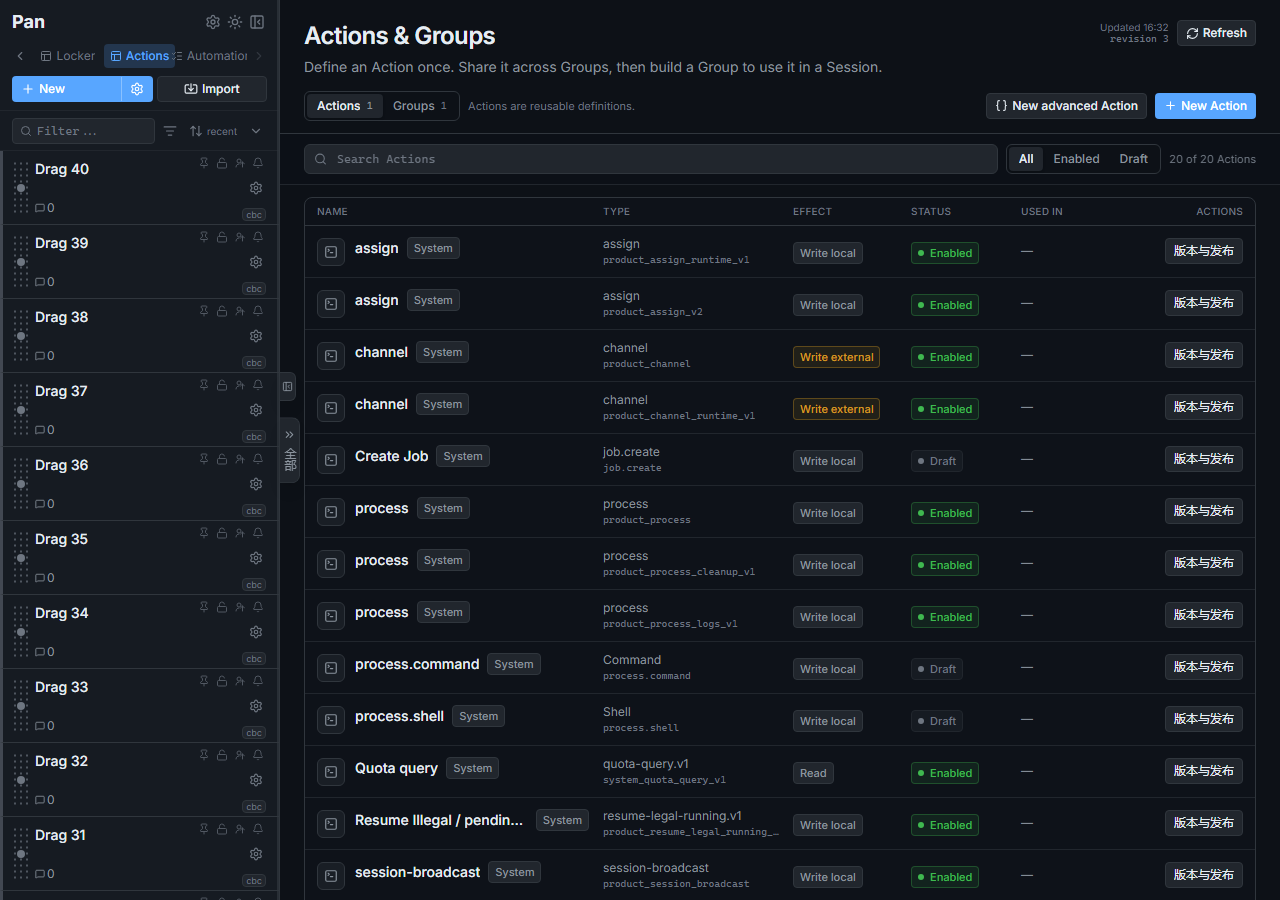
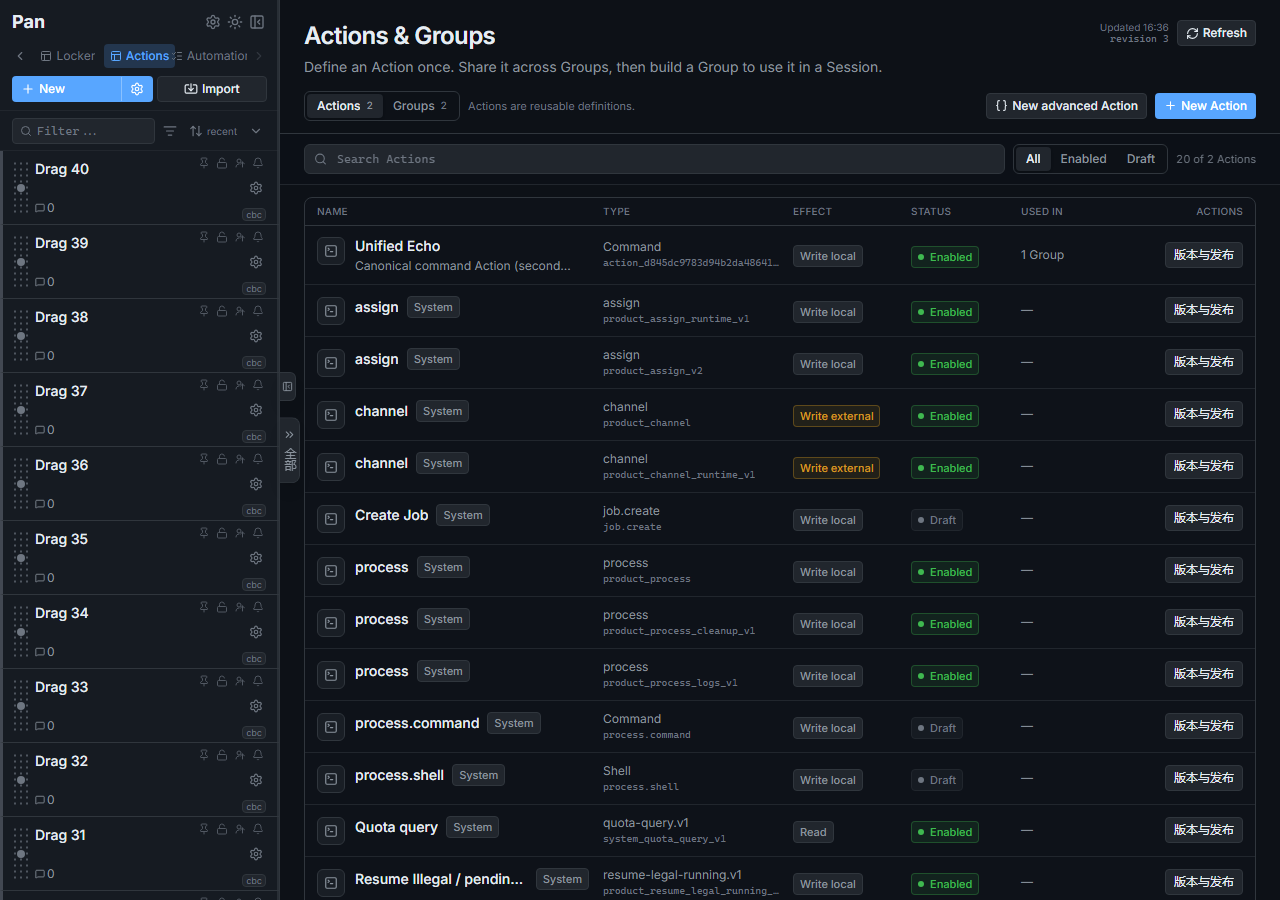
fix(actions): count and order system rows in the same designed table

diff --git a/packages/web/src/views/ActionsView.tsx b/packages/web/src/views/ActionsView.tsx
@@ -691,8 +691,12 @@ export function LegacyActionsView() {
     );
   }
 
-  const actionCount = hasLoaded ? registry.actions.length : 0;
-  const groupCount = hasLoaded ? registry.groups.length : 0;
+  const canonicalOnlyTotal = canonicalCatalog.filter((row) => row.adoption === 'canonical').length;
+  const canonicalGroupOnlyTotal = canonicalGroupRows.filter(
+    (row) => row.adoption === 'canonical',
+  ).length;
+  const actionCount = hasLoaded ? registry.actions.length + canonicalOnlyTotal : 0;
+  const groupCount = hasLoaded ? registry.groups.length + canonicalGroupOnlyTotal : 0;
   const useGroup = registry.groups.find((group) => group.id === useGroupId) ?? null;
   const liveGroup =
     editor?.kind === 'group' && editor.originalId
@@ -763,14 +767,13 @@ export function LegacyActionsView() {
     if (groupFilter === 'unbuilt') return !row.release;
     return true;
   });
+  // User-owned rows first; product-managed system rows stay visible below.
+  canonicalOnlyActions.sort((left, right) => Number(left.system) - Number(right.system));
   const visibleCount =
     tab === 'actions'
       ? filteredActions.length + canonicalOnlyActions.length
       : filteredGroups.length + canonicalOnlyGroups.length;
-  const totalCount =
-    tab === 'actions'
-      ? actionCount + canonicalCatalog.filter((row) => row.adoption === 'canonical').length
-      : groupCount + canonicalGroupRows.filter((row) => row.adoption === 'canonical').length;
+  const totalCount = tab === 'actions' ? actionCount : groupCount;
 
   return (
     <main aria-label="Actions Panel" className="flex h-full min-h-0 flex-col bg-bg-primary text-text-primary">
